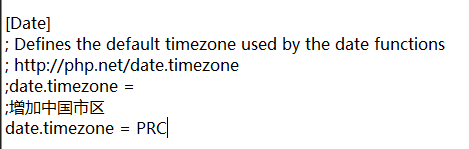
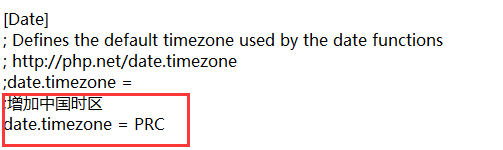
Site updated: 2019-03-30 11:29:30

Changed region(s): [[0.0, 0.0, 0.9552, 1.0]]

diff --git a/2019/03/28/about-Apache/index.html b/2019/03/28/about-Apache/index.html
@@ -90,7 +90,7 @@
 <meta property="og:image" content="http://dingzhen7186.github.io/images/apache.png">
 <meta property="og:image" content="http://dingzhen7186.github.io/images/httpd.png">
 <meta property="og:image" content="http://dingzhen7186.github.io/images/httpd_bug.png">
-<meta property="og:updated_time" content="2019-03-29T05:50:49.711Z">
+<meta property="og:updated_time" content="2019-03-30T03:28:27.140Z">
 <meta name="twitter:card" content="summary">
 <meta name="twitter:title" content="about Apache">
 <meta name="twitter:description" content="apache安装 进入apache官网download页面:http://httpd.apache.org/download.cgi 点击下面的Files for Microsoft Windows 在Downloading Apache for Windows栏下选择ApacheHaus 选择对应自己电脑位数(32/64)的版本,点击外国国旗图标即可下载 下载后直接解压压缩文件到自己的一个盘符或">
@@ -370,9 +370,9 @@
 <hr>
 <h2 id="apache配置"><a href="#apache配置" class="headerlink" title="apache配置"></a>apache配置</h2><ol>
 <li>apache目录下文件(夹)介绍<br><img src="/images/apache.png" alt="apache" title="apache"></li>
-<li>ServerRoot:服务器所在目录,找到Apache\conf\httpd.conf文件中的ServerRoot<br>改为你的apache所在目录,如：ServerRoot “E:/server/Apache24”<br>Define Server相同修改<br>ServerName 修改为localhost</li>
-<li>DocumentRoot:网站默认根目录.E:/server/Web(为了方便新建一个文件夹，学习<br>通常可以放到默认网站根目录:Apache/htdocs)</li>
-<li>Directory:权限控制,指定与网站默认根目录一致.E:/server/Apache24<br><img src="/images/httpd.png" alt="conf文件修改" title="conf文件修改"></li>
+<li>ServerRoot:服务器所在目录,找到Apache\conf\httpd.conf文件中的ServerRoot<br>改为你的apache所在目录,如：<code>ServerRoot &quot;E:/server/Apache24&quot;</code><br>Define Server相同修改<br>ServerName 修改为localhost</li>
+<li>DocumentRoot:网站默认根目录.<code>E:/server/Web</code>(为了方便新建一个文件夹，学习<br>通常可以放到默认网站根目录:Apache/htdocs)</li>
+<li>Directory:权限控制,指定与网站默认根目录一致.<code>E:/server/Apache24</code><br><img src="/images/httpd.png" alt="conf文件修改" title="conf文件修改"></li>
 <li>管理员身份运行cmd,切换到/Apache24/bin,把apache安装成Windows系统服务<br>输入命令: <code>httpd.exe -k install</code><br>加入到Windows系统服务的好处是以后只要开机apache服务就自动打开了,省的我们每次都要手动打开</li>
 <li>第一次安装后不会自动启动,需要手动启动,输入指令<br><code>httpd.exe -k start</code></li>
 <li>cmd中输入<code>httpd.exe -t</code>如果出现<code>Synax OK</code>则表示配置文件修改成功 </li>
@@ -383,7 +383,7 @@
 </ul>
 <ol>
 <li>修改 Apache 端口的方法是最妥协的方法了，后果是当你开启 Apache 服务器的时候，访问的本机地址将会附带端口号，比如<code>http://localhost:8888</code>,修改方式是打开httpd.conf文件,把文件中Listen的值修改为其他未被占用的端口号就行了</li>
-<li>找出80端口被谁占用:在cmd中输入netstat -a -o命令查看被占用端口的pid,然后输入指令tasklist,找到对应pid的进程,用taskkill -f -im 终止掉该进程<font color="red">(注意要进入管理员权限的cmd才有权限终止进程)</font></li>
+<li>找出80端口被谁占用:在cmd中输入<code>netstat -a -o</code>命令查看被占用端口的pid,然后输入指令tasklist,找到对应pid的进程,用<code>taskkill -f -im</code>终止掉该进程<font color="red">(注意要进入管理员权限的cmd才有权限终止进程)</font></li>
 </ol>
 <p><b><center>至此，你的apache服务器配置运行完成了！</center></b></p>
 

diff --git a/2019/03/29/PHP安装及配置/index.html b/2019/03/29/PHP安装及配置/index.html
@@ -93,7 +93,7 @@
 <meta property="og:image" content="http://dingzhen7186.github.io/images/loadmodule.png">
 <meta property="og:image" content="http://dingzhen7186.github.io/images/load_php.png">
 <meta property="og:image" content="http://dingzhen7186.github.io/images/timezone.png">
-<meta property="og:updated_time" content="2019-03-29T14:49:39.117Z">
+<meta property="og:updated_time" content="2019-03-30T03:22:17.916Z">
 <meta name="twitter:card" content="summary">
 <meta name="twitter:title" content="PHP安装及配置">
 <meta name="twitter:description" content="PHP下载安装 还是建议去官网下载:PHP,大约24M,然而下载速度贼慢！重要的来了，看图，我是上过当的，你们千万别和我一样 直接解压到新建的一个PHP文件夹中，最好和自己的apache放在同一级目录,比如我的就是放在我的server目录下 php文件介绍   配置PHP .ini才是真正的配置文件,把php.ini-development文件改成php.ini,最好留个备份的php.ini-de">
@@ -375,12 +375,12 @@
 </ol>
 <hr>
 <h2 id="Apache加载PHP"><a href="#Apache加载PHP" class="headerlink" title="Apache加载PHP"></a>Apache加载PHP</h2><blockquote>
-<p>Apache的工作原理是模块化加载工作，即加在某个模块后就可以使用对应模块的功能;二PHP是独立工作的，不具备从互联网接收别人请求的能力，二者需要相互协作。协作的模式就是PHP为Apache提供的调用功能模块，Apache只需要按照正确的方式去调用PHP，并且让PHP在需要的时候能够工作即可。</p>
+<p>Apache的工作原理是模块化加载工作，即加在某个模块后就可以使用对应模块的功能;而PHP是独立工作的，不具备从互联网接收别人请求的能力，二者需要相互协作。协作的模式就是PHP为Apache提供的调用功能模块，Apache只需要按照正确的方式去调用PHP，并且让PHP在需要的时候能够工作即可。</p>
 </blockquote>
 <ol>
 <li>找到PHP为Apache提供的模块文件：<code>php7apache2_4.dll</code></li>
 <li>在Apache的配置文件中使用LoadModule命令加载PHP模块，<code>LoadModule php7_module php7apache2_4.dll(绝对路径)</code><br><img src="/images/loadmodule.png" alt="加载PHP" title="加载PHP"></li>
-<li>在Apache中指定需要PHP解析的文件(以后缀区分)，`Add Type application/x-httpd-php .php .html</li>
+<li>在Apache中指定需要PHP解析的文件(以后缀区分)，<code>Add Type application/x-httpd-php .php .html</code></li>
 <li>PHP虽为Apache打工，但是PHP是独立运行的，如果想让PHP完全服从Apache，需要将PHP的配置文件加载到Apache中：PHPIniDir php.ini文件路径（绝对路径）<br><img src="/images/load_php.png" alt="加载PHP" title="加载php"></li>
 <li>任何Apache配置文件修改（包括已经加载到Apache中的php.ini）都系要重启Apache才能生效：运行Apache-&gt;bin-&gt;ApacheMonitor.exe,然后重启</li>
 <li>改变时区<br><font color="red">注意重启apache服务器才能生效!</font><br><img src="/images/timezone.png" alt="timezone"></li>

diff --git a/css/main.css b/css/main.css
@@ -1943,7 +1943,7 @@ pre .javascript .function {
   width: 4px;
   height: 4px;
   border-radius: 50%;
-  background: #57ccff;
+  background: #e26721;
 }
 .links-of-blogroll {
   font-size: 13px;
